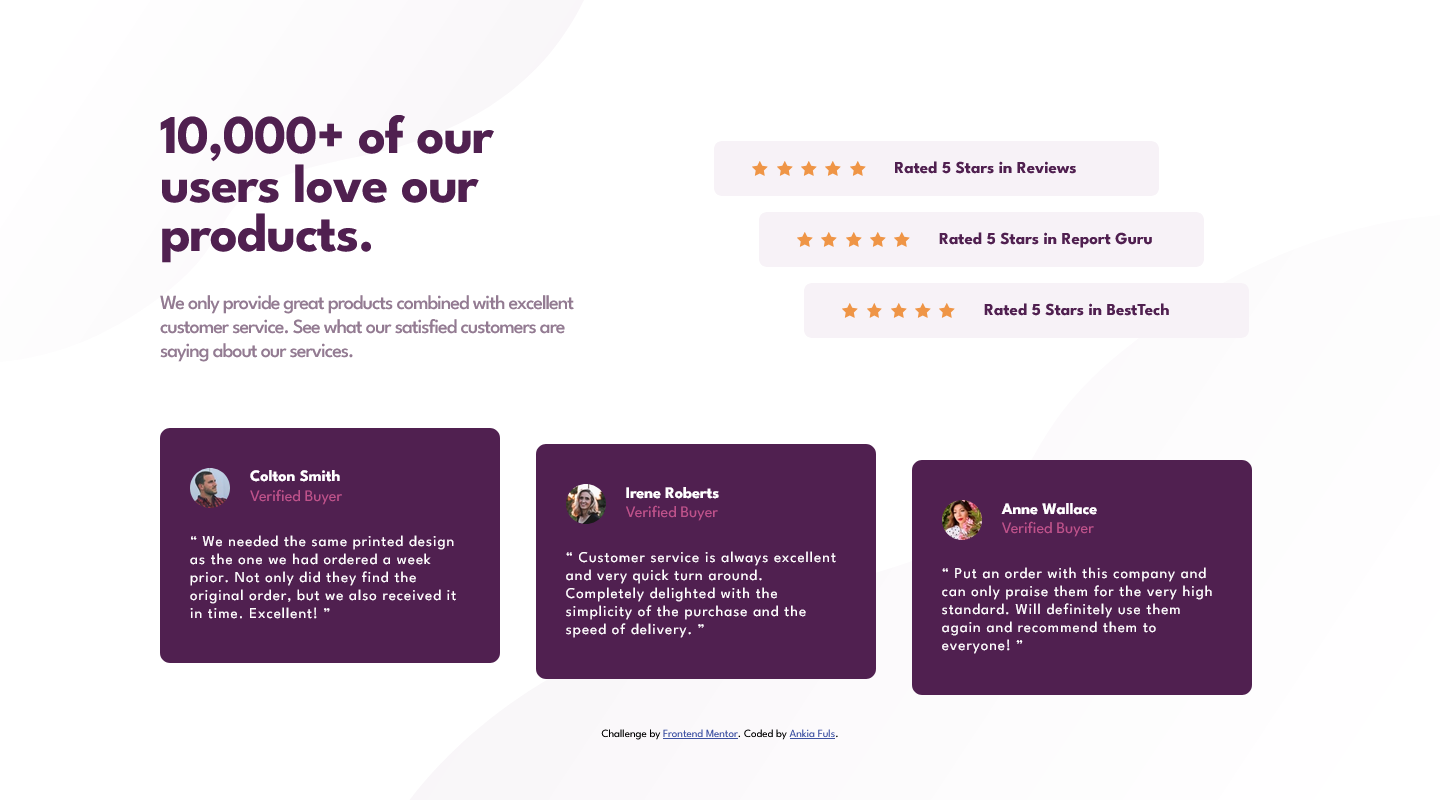
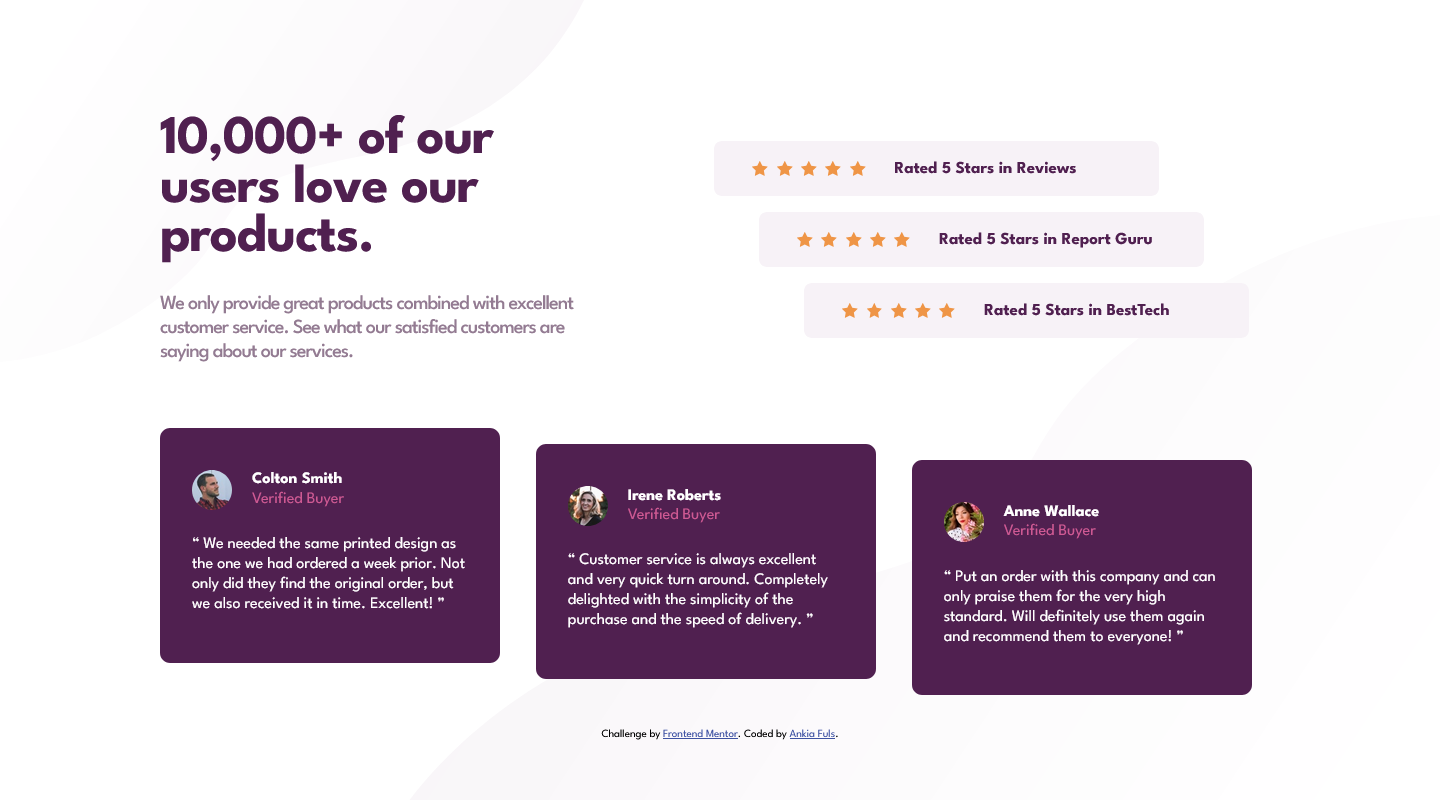
Updated small CSS details

diff --git a/index.html b/index.html
@@ -22,7 +22,7 @@
 
       <section class="ratings">
         <div class="container">
-          <div class="stars">
+          <div class="stars" aria-hidden="true">
             <img src="./images/icon-star.svg" alt="A icon of a golden star" />
             <img src="./images/icon-star.svg" alt="A icon of a golden star" />
             <img src="./images/icon-star.svg" alt="A icon of a golden star" />
@@ -32,7 +32,7 @@
           <p>Rated 5 Stars in Reviews</p>
         </div>
         <div class="container">
-          <div class="stars">
+          <div class="stars" aria-hidden="true">
             <img src="./images/icon-star.svg" alt="A icon of a golden star" />
             <img src="./images/icon-star.svg" alt="A icon of a golden star" />
             <img src="./images/icon-star.svg" alt="A icon of a golden star" />
@@ -42,7 +42,7 @@
           <p>Rated 5 Stars in Report Guru</p>
         </div>
         <div class="container">
-          <div class="stars">
+          <div class="stars" aria-hidden="true">
             <img src="./images/icon-star.svg" alt="A icon of a golden star" />
             <img src="./images/icon-star.svg" alt="A icon of a golden star" />
             <img src="./images/icon-star.svg" alt="A icon of a golden star" />

diff --git a/styles.scss b/styles.scss
@@ -11,7 +11,7 @@
 
 :root {
     --very-dark-magenta: hsl(300, 43%, 22%);
-    --soft-pink: hsla(333, 80%, 67%, 0.7);
+    --soft-pink: hsla(333, 80%, 67%, 0.8);
     --dark-grayish-magenta: hsl(303, 10%, 53%);
     --light-grayish-magenta: hsl(300, 24%, 96%);
     --white: hsl(0, 0%, 100%);
@@ -224,12 +224,10 @@ footer {
         .reviews {
             flex-direction: row;
             grid-area: reviews;
-
-            // gap: 2.67%;
             gap: 3.26%;
 
             .card {
-                padding: rem(30);
+                padding: rem(32);
                 width: 31.16%;
                 height: rem(235);
             }
@@ -246,6 +244,12 @@ footer {
                     height: rem(40);
                     border-radius: 50%;
                 }
+            }
+
+            .review {
+                letter-spacing: rem(0);
+                font-size: 1rem;
+                line-height: rem(20);
             }
 
             .card:nth-of-type(2) {
@@ -268,6 +272,6 @@ footer {
 
 @media only screen and (min-width:rem(621)) and (max-width:rem(930)) {
     html {
-        font-size: rem(12);
+        font-size: rem(11);
     }
 }

diff --git a/css/styles.css b/css/styles.css
@@ -1,7 +1,7 @@
 @import url("https://fonts.googleapis.com/css2?family=League+Spartan:wght@100..900&display=swap");
 :root {
   --very-dark-magenta: hsl(300, 43%, 22%);
-  --soft-pink: hsla(333, 80%, 67%, 0.7);
+  --soft-pink: hsla(333, 80%, 67%, 0.8);
   --dark-grayish-magenta: hsl(303, 10%, 53%);
   --light-grayish-magenta: hsl(300, 24%, 96%);
   --white: hsl(0, 0%, 100%);
@@ -187,7 +187,7 @@ footer .attribution a {
     gap: 3.26%;
   }
   .grid .reviews .card {
-    padding: 1.875rem;
+    padding: 2rem;
     width: 31.16%;
     height: 14.6875rem;
   }
@@ -202,6 +202,11 @@ footer .attribution a {
     width: 2.5rem;
     height: 2.5rem;
     border-radius: 50%;
+  }
+  .grid .reviews .review {
+    letter-spacing: 0rem;
+    font-size: 1rem;
+    line-height: 1.25rem;
   }
   .grid .reviews .card:nth-of-type(2) {
     margin-top: 1.5%;
@@ -218,6 +223,6 @@ footer .attribution a {
 }
 @media only screen and (min-width: 38.8125rem) and (max-width: 58.125rem) {
   html {
-    font-size: 0.75rem;
+    font-size: 0.6875rem;
   }
 }/*# sourceMappingURL=styles.css.map */
